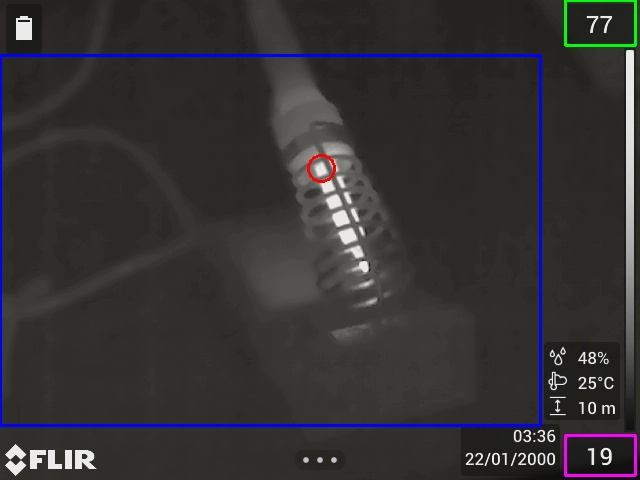
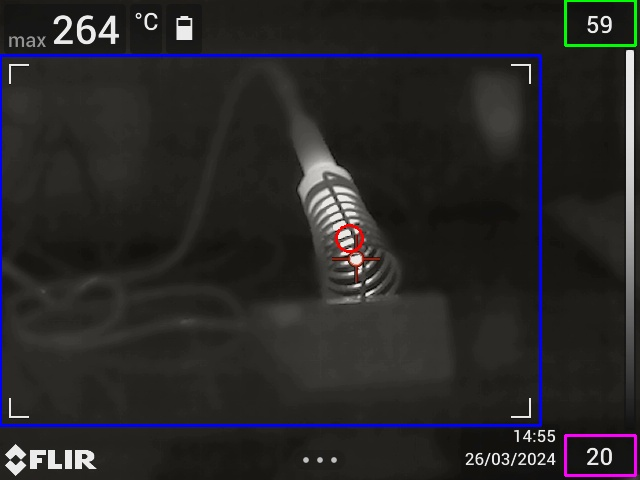
Updated hotspot detection to read hotspot temp and apply rectangle around entire hotspot

diff --git a/hs_rep/src/hotspot_detection/hotspot_detection/hs_detect_node_cam_hs.py b/hs_rep/src/hotspot_detection/hotspot_detection/hs_detect_node_cam_hs.py
@@ -1,0 +1,133 @@
+#!/usr/bin/env python3
+
+import rclpy
+import cv2
+import numpy as np
+import pytesseract
+import re
+from pytesseract import Output
+from rclpy.node import Node
+from sensor_msgs.msg import Image
+from cv_bridge import CvBridge
+
+
+
+class MinimalSubscriber(Node):
+
+    def __init__(self):
+        super().__init__('minimal_subscriber')
+
+        # Subscribe to /image_raw topic
+        self.subscription = self.create_subscription(Image, '/image_raw', self.image_callback, 10)
+        self.subscription  # Prevent unused variable warning
+        self.bridge = CvBridge()
+
+    def image_callback(self, msg):
+        try:
+            # Convert ROS 2 Image message to OpenCV format
+            self.cv_image = self.bridge.imgmsg_to_cv2(msg, desired_encoding="bgr8")
+
+            # High Temperature Reading ROI
+            self.HTy1 = 0
+            self.HTy2 = 50
+            self.HTx1 = 50
+            self.HTx2 = 125 # May need to adjust this value if temp is approximate
+            self.HT_ROI =  self.cv_image[self.HTy1:self.HTy2, self.HTx1:self.HTx2]
+
+            # Preprocess the image
+            self.HT_ROI = cv2.resize(self.HT_ROI, None, fx=2, fy=2, interpolation=cv2.INTER_CUBIC)
+            gray = cv2.cvtColor(self.HT_ROI, cv2.COLOR_BGR2GRAY)
+            _, self.HT_ROI = cv2.threshold(gray, 150, 255, cv2.THRESH_BINARY)
+            cv2.imwrite("HT_ROI.jpg", self.HT_ROI)
+
+             # Text Recognition
+            custom_config = r'--oem 3 --psm 6'
+            self.HT_text = pytesseract.image_to_string(self.HT_ROI, config=custom_config)
+
+            # Discard all non-numerical characters
+            self.HT_text = re.sub(r'\D', '', self.HT_text)
+            print(f"Hotspot Temp = {self.HT_text}")
+
+            # Limit area hotspot detection works in
+            self.y1 = 70
+            self.y2 = 410
+            self.x1 = 20
+            self.x2 = 500
+            self.imROI = self.cv_image[self.y1:self.y2, self.x1:self.x2]
+
+            # Call hotspot detection function
+            MinimalSubscriber.hotspot_detection(self)
+
+        # Error handling
+        except Exception as e:
+            self.get_logger().error(f"Error processing image: {str(e)}")
+
+    def hotspot_detection(self):
+
+        # Find the maximum pixel intensity value (brightest point)
+        max_intensity = np.max(self.imROI)
+        max_intensity_location = np.where(self.imROI == max_intensity)
+
+        # Get the coordinates of the brightest point
+        x, y = max_intensity_location[1][0], max_intensity_location[0][0]
+
+        # Only draw a rectangle when hotspot is over 100 degC
+
+        if int(float(self.HT_text)) > 100:
+
+            # Convert the image to grayscale
+            gray = cv2.cvtColor(self.imROI, cv2.COLOR_BGR2GRAY)
+            # cv2.imwrite("gray.jpg", gray)
+
+            # Thresholding and Dilation
+            _, thresholded = cv2.threshold(gray, 110, 255, cv2.THRESH_BINARY)
+            kernel = np.ones((3,3), np.uint8)
+            thresholded = cv2.dilate(thresholded, kernel, iterations=5)
+            # cv2.imwrite("thresholded.jpg", thresholded)
+
+            # Find contours in the thresholded image
+            contours, _ = cv2.findContours(thresholded, cv2.RETR_EXTERNAL, cv2.CHAIN_APPROX_SIMPLE)
+
+            # Correct for offset due to imROI
+            for contour in contours:
+                contour[:,0,1] += 85
+
+            # Find the largest contour (assuming this is the hotspot)
+            largest_contour = max(contours, key=cv2.contourArea)
+
+            # Calculate the rotated bounding rectangle of the largest contour
+            rect = cv2.minAreaRect(largest_contour)
+            box = cv2.boxPoints(rect)
+            box = np.int0(box)
+
+            # Draw contours for testing
+            cv2.drawContours(self.cv_image, contours, -1, (0,255,0), 3)
+
+            # Draw the rectangle
+            cv2.drawContours(self.cv_image, [box], 0, (0, 0, 255), 2)
+            
+            print(f"Rectangle drawn around the hotspot at ({x}, {y}).")
+
+        # Draw rectangle for ROI (Optional)
+        cv2.rectangle(self.cv_image, (self.x1, self.y1), (self.x2, self.y2), (255, 0, 0), 2)
+        cv2.rectangle(self.cv_image, (self.HTx1, self.HTy1), (self.HTx2, self.HTy2), (0, 255, 0), 2)
+        
+        # Measurement point (needs to be adaptive in future)
+        self.measurement_point = 12
+
+        # Save image with hotspot located
+        output_image_path = f"{str(self.measurement_point)} hotspot.jpg"
+        print(f"Modified image saved as '{output_image_path}'")
+        cv2.imwrite(output_image_path, self.cv_image)
+        
+def main(args=None):
+    rclpy.init(args=args)
+
+    minimal_subscriber = MinimalSubscriber()
+    rclpy.spin_once(minimal_subscriber)
+
+    rclpy.shutdown()
+
+if __name__ == '__main__':
+    main()
+

diff --git a/hs_rep/src/cam_topic/cam_topic/camera_topic.py b/hs_rep/src/cam_topic/cam_topic/camera_topic.py
@@ -20,7 +20,8 @@ class MinimalPublisher(Node):
 
     def timer_callback(self):
         # Define the path to your image file
-        image_path = 'new_test_hotspot_thermal_overlay.jpg'
+        #image_path = 'new_test_hotspot_thermal_overlay.jpg'
+        image_path = 'test 5 hotspot.jpg'
 
         # Read the image using OpenCV
         cv_image = cv2.imread(image_path)

diff --git a/hs_rep/src/hotspot_detection/setup.py b/hs_rep/src/hotspot_detection/setup.py
@@ -20,7 +20,7 @@ setup(
     tests_require=['pytest'],
     entry_points={
         'console_scripts': [
-            "hs_node = hotspot_detection.hs_detect_node:main"
+            "hs_node = hotspot_detection.hs_detect_node_cam_hs:main"
         ],
     },
 )
